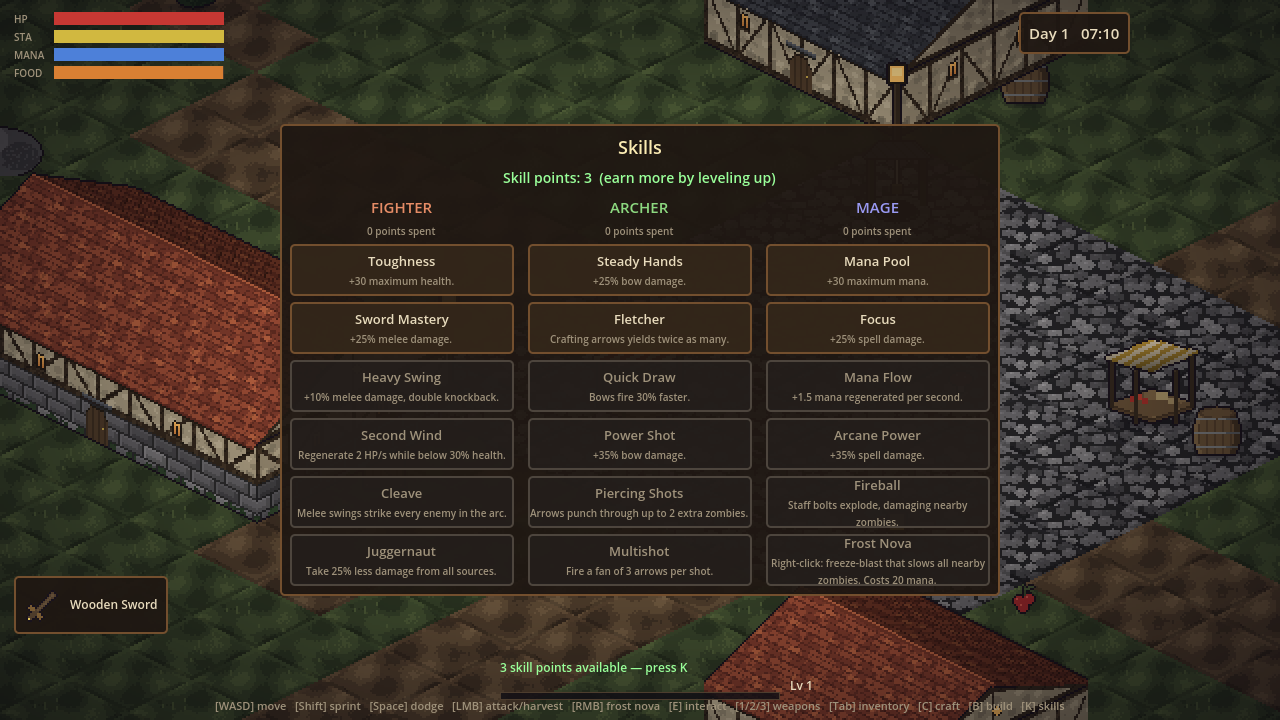
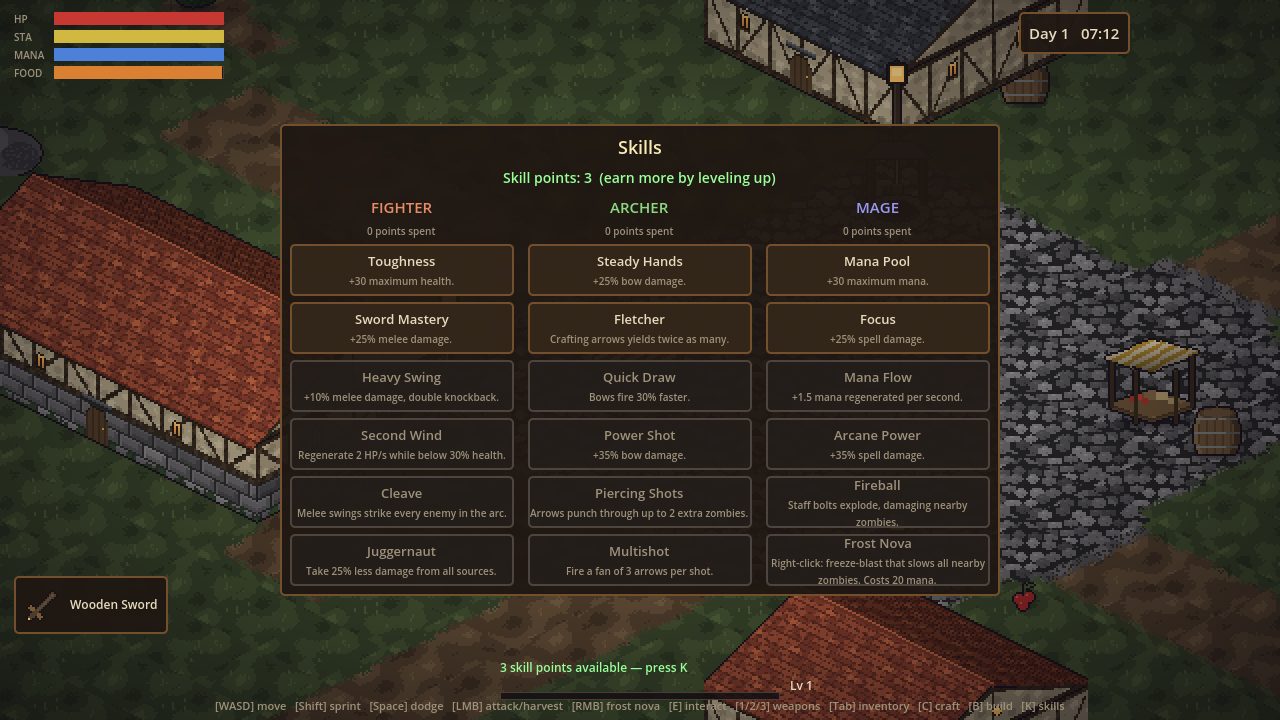
Terrain blending: fringe transition tiles, no more tile grid
- Removed the per-tile diamond edge shading that drew a visible grid
  across the ground, and softened tone extremes inside each tile
- Added 16 fringe transition tiles (grass/dirt/sand/stone x 4 iso edge
  directions) with irregular, dithered boundaries: grass creeps onto
  roads and plazas, sand laps into water, cobbles scatter into dirt
- World tracks a material per tile (grass > stone > dirt > sand >
  water) and lays fringes on four overlay TileMapLayers wherever a
  higher-priority material borders a lower one, after all town/city
  paving is done

https://claude.ai/code/session_01QWSZy1g7crafKAx86Grg4Q

diff --git a/medieval-zombie-survival/tools/generate_assets.py b/medieval-zombie-survival/tools/generate_assets.py
@@ -131,18 +131,14 @@ def terrain_tile(ramp, seed, tufts=0, tuft_color=None, waves=False, wave_seed=No
                 continue
             n = value_noise(x, y, seed, scale=0.22)
             n += (rng.random() - 0.5) * 0.12
-            if n < 0.30:
+            if n < 0.18:
                 c = ramp[0]
             elif n < 0.55:
                 c = ramp[1]
-            elif n < 0.82:
+            elif n < 0.88:
                 c = ramp[2]
             else:
                 c = ramp[3]
-            # bottom edges read darker, top edges catch light
-            edge = abs((x + 0.5) / TILE_W * 2 - 1) + abs((y + 0.5) / TILE_H * 2 - 1)
-            if edge > 0.88:
-                c = shade(c, 0.82 if y > TILE_H / 2 else 1.08)
             px(im, x, y, c + (255,))
     for _ in range(tufts):
         tx = rng.randint(14, TILE_W - 14)
@@ -187,16 +183,73 @@ def cobble_tile(seed):
             px(im, jx - 1, jy - 1, shade(tone + (255,), 1.18))
             px(im, jx, jy - 1, shade(tone + (255,), 1.1))
             px(im, jx + 1, jy + 1, shade(tone + (255,), 0.8))
-    # clip to diamond + edge shading
+    # clip to diamond
     for y in range(TILE_H):
         for x in range(TILE_W):
             if not in_diamond(x, y):
                 px(im, x, y, (0, 0, 0, 0))
-            else:
-                edge = abs((x + 0.5) / TILE_W * 2 - 1) + abs((y + 0.5) / TILE_H * 2 - 1)
-                if edge > 0.88:
-                    cur = im.getpixel((x, y))
-                    px(im, x, y, shade(cur, 0.82 if y > TILE_H / 2 else 1.08))
+    return im
+
+
+
+
+FRINGE_RAMPS = {"grass": GRASS, "dirt": DIRT, "sand": SAND}
+
+
+def _mat_color(x, y, kind, rng):
+    if kind == "stone":
+        n = value_noise(x * 0.9, y * 1.1, 19.0)
+        c = STONE[2] if n > 0.5 else STONE[1]
+        if rng.random() < 0.18:
+            c = shade(STONE[0] + (255,), 0.8)[:3]
+        return c
+    ramp = FRINGE_RAMPS[kind]
+    n = value_noise(x, y, {"grass": 1, "dirt": 4, "sand": 6}[kind], scale=0.22)
+    n += (rng.random() - 0.5) * 0.12
+    if n < 0.18:
+        return ramp[0]
+    if n < 0.55:
+        return ramp[1]
+    if n < 0.88:
+        return ramp[2]
+    return ramp[3]
+
+
+def fringe_tile(kind, direction, seed):
+    """A transparent tile where `kind` bleeds in from one diamond edge
+    (nw/ne/sw/se) with an irregular, dithered boundary."""
+    im = new(TILE_W, TILE_H)
+    rng = random.Random(seed)
+    for y in range(TILE_H):
+        for x in range(TILE_W):
+            if not in_diamond(x, y):
+                continue
+            nx = (x + 0.5) / TILE_W * 2 - 1
+            ny = (y + 0.5) / TILE_H * 2 - 1
+            if direction == "nw":
+                s = nx + ny + 1
+                t = (nx - ny + 1) / 2
+            elif direction == "ne":
+                s = 1 - (nx - ny)
+                t = (nx + ny + 1) / 2
+            elif direction == "sw":
+                s = 1 + (nx - ny)
+                t = (nx + ny + 1) / 2
+            else:  # se
+                s = 1 - (nx + ny)
+                t = (nx - ny + 1) / 2
+            depth = 0.26 + 0.22 * value_noise(t * 11.0, seed * 2.0, 41.0 + seed)
+            c = _mat_color(x, y, kind, rng)
+            if s < depth:
+                px(im, x, y, c + (255,))
+            elif s < depth + 0.16 and rng.random() < 0.4:
+                px(im, x, y, c + (255,))  # dithered fade
+    if kind == "grass":
+        for i in range(3):
+            tx = rng.randint(8, TILE_W - 8)
+            ty = rng.randint(4, TILE_H - 5)
+            if im.getpixel((tx, ty))[3] > 0:
+                px(im, tx, ty - 1, GRASS[3] + (255,))
     return im
 
 
@@ -216,6 +269,10 @@ def build_terrain_atlas():
         cobble_tile(9),
         cobble_tile(10),
     ]
+    # fringe overlays, indices 11..26: mats x dirs (order must match World.gd)
+    for mi, mat in enumerate(["grass", "dirt", "sand", "stone"]):
+        for di, d in enumerate(["nw", "ne", "sw", "se"]):
+            cells.append(fringe_tile(mat, d, 50 + mi * 4 + di))
     cols = 5
     rows = (len(cells) + cols - 1) // cols
     atlas = new(cols * TILE_W, rows * TILE_H)
